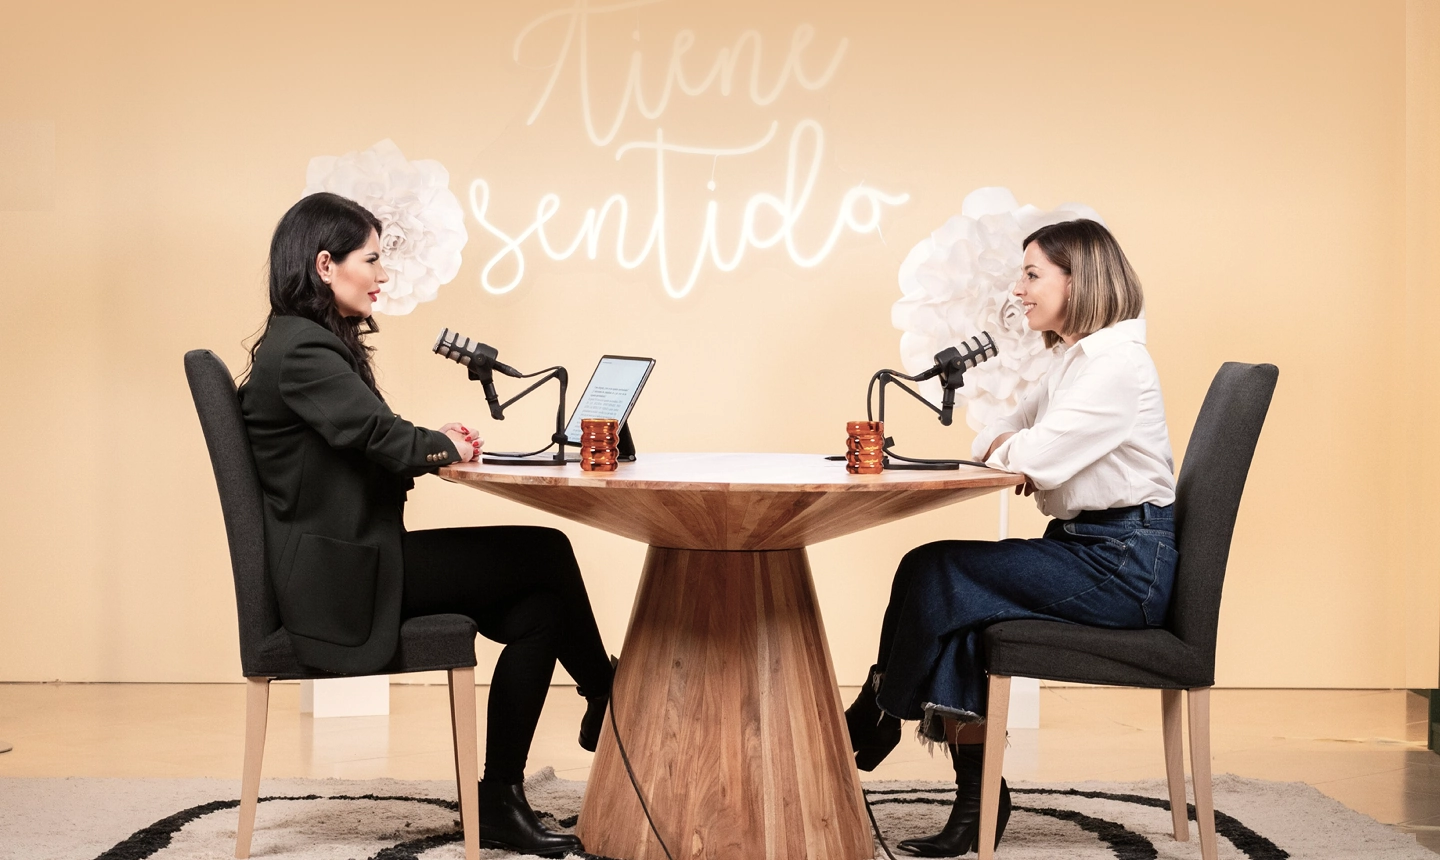
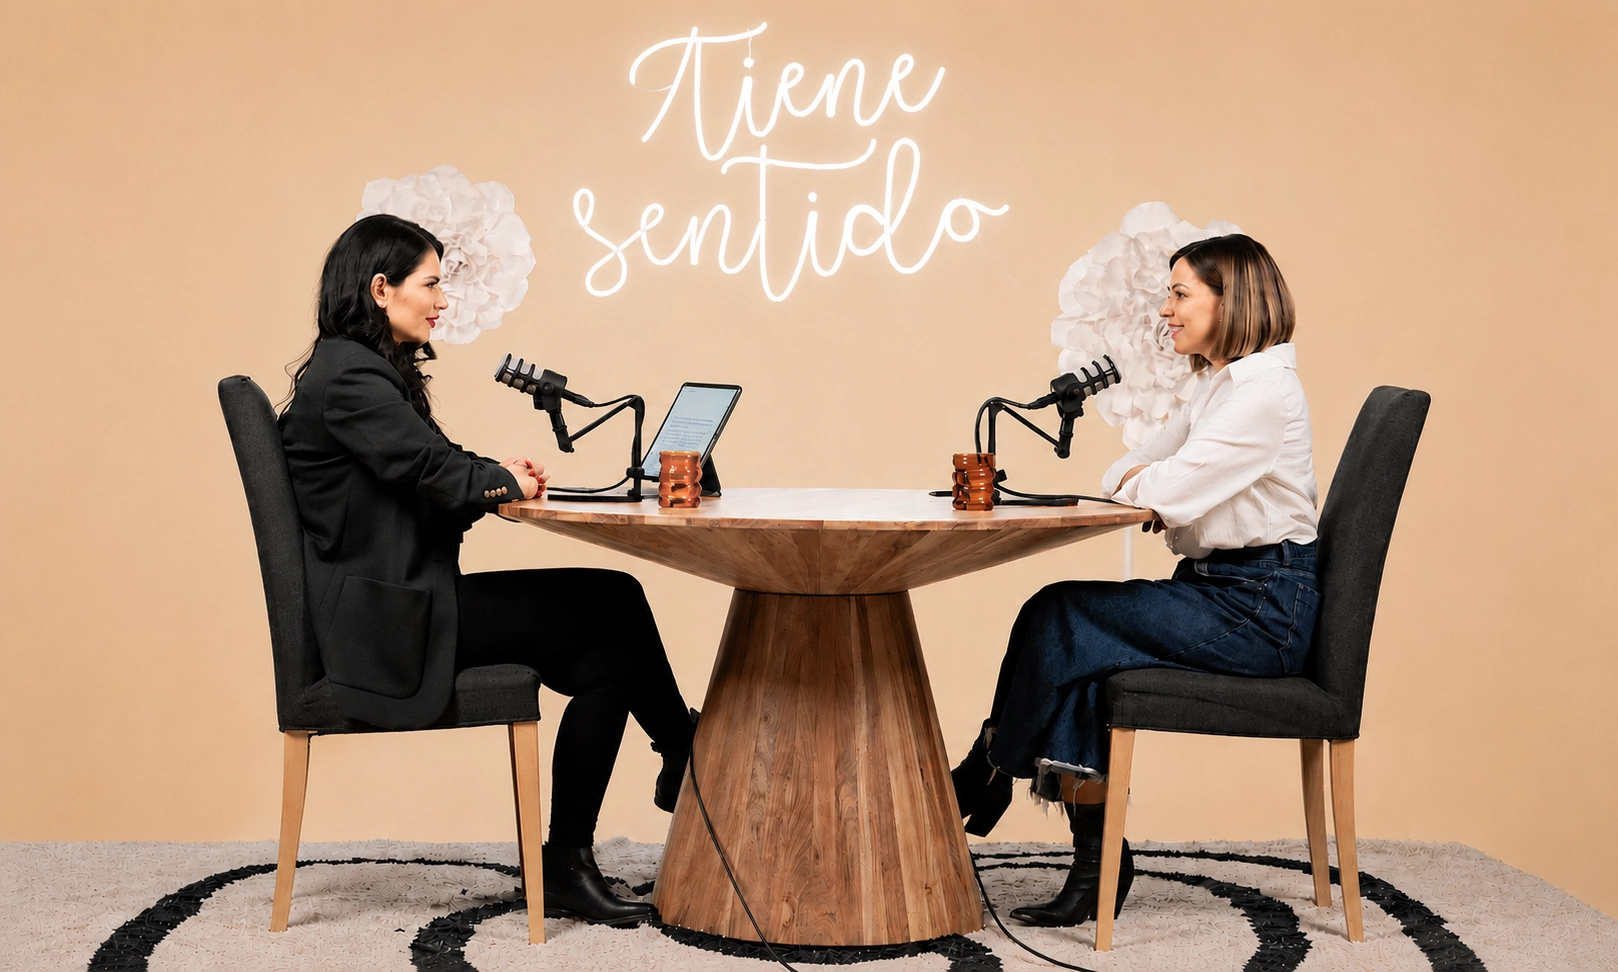
Implement hero section and minor header improvements

diff --git a/src/layout/Header.tsx b/src/layout/Header.tsx
@@ -26,8 +26,8 @@ export const Header = () => {
     }, [isOpen]);
 
     return (
-        <header className="py-8 bg-transparent">
-            <div className="flex items-center justify-between px-4 lg:px-0 md:mx-10 pb-4
+        <header className="relative z-[100] py-6 md:py-8">
+            <div className="flex items-center justify-between px-4 md:px-0 md:mx-10 pb-4
                             border-b border-transparent lg:border-[var(--color-verde)]">
                 <a href="/" className="relative z-[60]">
                     <img
@@ -38,14 +38,14 @@ export const Header = () => {
 
                 <nav className="hidden lg:flex lg:justify-between lg:gap-6">
                     {navLinks.map((item)=> (
-                            <a
-                                key={item.id}
-                                href={item.href}
-                                target={item.href.startsWith("http") ? "_blank" : undefined}
-                                rel={item.href.startsWith("http") ? "noopener noreferrer" : undefined}
-                                className="text-p2-caps text-[var(--color-verde)]">
-                                {item.text}
-                            </a>
+                        <a
+                            key={item.id}
+                            href={item.href}
+                            target={item.href.startsWith("http") ? "_blank" : undefined}
+                            rel={item.href.startsWith("http") ? "noopener noreferrer" : undefined}
+                            className="text-p2-caps text-[var(--color-verde)] text-hover">
+                            {item.text}
+                        </a>
                     ))}
                 </nav>
 
@@ -66,21 +66,21 @@ export const Header = () => {
             </div>
 
             <div
-                className={`fixed left-0 right-0 top-20 bottom-0 z-50 bg-white transition-all duration-500 ease-out 
+                className={`fixed inset-0 z-50 bg-[var(--color-blanco)] transition-all duration-500 ease-out 
                             ${ isOpen ? "opacity-100 translate-y-0 pointer-events-auto lg:hidden"
-                                      : "opacity-0 -translate-y-4 pointer-events-none"}
+                    : "opacity-0 -translate-y-4 pointer-events-none"}
                 `}
             >
-                <nav  className="flex flex-col items-center gap-10 py-16">
+                <nav className="flex flex-col items-center gap-10 pt-[120px] pb-16 ">
                     {navLinks.map((item)=> (
-                            <a
-                                key={item.id}
-                                href={item.href}
-                                target={item.href.startsWith("http") ? "_blank" : undefined}
-                                rel={item.href.startsWith("http") ? "noopener noreferrer" : undefined}
-                                className="text-p2-caps text-[var(--color-verde)]" >
-                                {item.text}
-                            </a>
+                        <a
+                            key={item.id}
+                            href={item.href}
+                            target={item.href.startsWith("http") ? "_blank" : undefined}
+                            rel={item.href.startsWith("http") ? "noopener noreferrer" : undefined}
+                            className="text-p2-caps text-[var(--color-verde)] text-hover" >
+                            {item.text}
+                        </a>
                     ))}
                 </nav>
 

diff --git a/src/pages/Hero.tsx b/src/pages/Hero.tsx
@@ -1,0 +1,59 @@
+import StudioMobile from "../assets/hero-img-sm.webp"
+import StudioDesktop from "../assets/hero-img.webp"
+import ScrollDown from "../assets/icons/scroll-down.svg"
+
+
+const Hero = () => {
+    const handleScrollDown = (): void => {
+        const nextSection = document.getElementById('about');
+
+        if (nextSection) {
+            nextSection.scrollIntoView({
+                behavior: 'smooth',
+                block: 'start',
+            });
+        }
+    };
+
+    return (
+        <section className="absolute inset-x-0 top-0 z-50">
+            <div className="overflow-x-hidden">
+                <img
+                    src={StudioMobile}
+                    alt="Tiene Sentido Podcast"
+                    className="w-full md:hidden"
+                />
+                <img
+                    src={StudioDesktop}
+                    alt="Tiene Sentido Podcast"
+                    className="hidden md:block w-screen max-w-none relative left-1/2 -translate-x-1/2"
+                />
+            </div>
+
+            <div className="flex flex-col items-center justify-center">
+                <h1 className="text-title text-[var(--color-verde-oscuro)] text-center w-[50%]
+                               absolute z-10 top-[20%] left-1/2 -translate-x-1/2"
+                >
+                    TIENE SENTIDO PÓDCAST
+                </h1>
+
+                <a
+                    href="#"
+                    className="text-btn bg-[var(--color-verde)] whitespace-nowrap text-[var(--color-blanco)]
+                               px-6 py-4 absolute top-1/2 left-1/2 -translate-x-1/2 z-10 lg:hidden"
+                >
+                    Únete a la newsletter
+                </a>
+
+                <button
+                    onClick={handleScrollDown}
+                    aria-label="Scroll to next section"
+                    className="absolute bottom-10 left-1/2 -translate-x-1/2 z-10 transition-transform duration-300 hover:scale-110 active:scale-95"
+                >
+                    <img src={ScrollDown} aria-hidden="true" alt="" />
+                </button>
+            </div>
+        </section>
+    )
+}
+export default Hero

diff --git a/src/index.css b/src/index.css
@@ -76,7 +76,7 @@
     font-weight:var(--text-title-weight);
     line-height:var(--text-title-line-height);
 
-    @variant md {
+    @variant lg {
         font-size: var(--text-title-size-desktop);
     }
 }
@@ -163,6 +163,6 @@
 
 @layer utilities {
     .text-hover {
-        @apply hover:text-[var(--color-rojo)] active:text-[var(--color-rojo)] focus:text-[var(--color-rojo)] transition-colors duration-400;
+        @apply hover:text-[var(--color-verde-oscuro)] active:text-[var(--color-verde-oscuro)] focus:text-[var(--color-verde-oscuro)] transition-colors duration-400;
     }
 }

diff --git a/src/App.tsx b/src/App.tsx
@@ -1,9 +1,11 @@
 import { Header } from './layout/Header'
+import Hero from "./pages/Hero.tsx";
 
 const App = () => {
     return (
-        <div className="max-w-[1600px] mx-auto">
-            <Header />
+        <div className="relative max-w-[1600px] mx-auto w-full">
+            <Header/>
+            <Hero/>
         </div>
     )
 }
